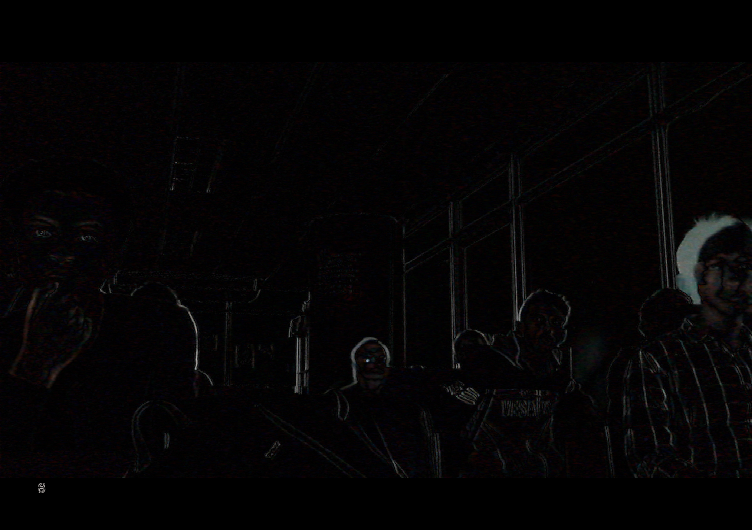
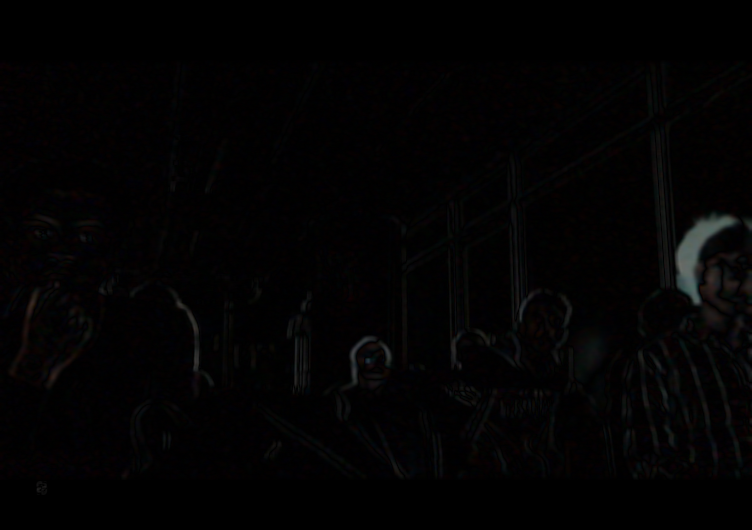
flood fill

diff --git a/FloodFill Demo/src/floodfill/demo/FloodFillDemo.java b/FloodFill Demo/src/floodfill/demo/FloodFillDemo.java
@@ -5,9 +5,16 @@
  */
 package floodfill.demo;
 
+import java.util.HashMap;
+import java.util.LinkedList;
+import java.util.Map;
+import java.util.Queue;
+import javafx.util.Pair;
 import org.opencv.core.Core;
 import org.opencv.core.Mat;
+import org.opencv.core.Size;
 import org.opencv.imgcodecs.Imgcodecs;
+import org.opencv.imgproc.Imgproc;
 
 /**
  *
@@ -16,22 +23,38 @@ import org.opencv.imgcodecs.Imgcodecs;
 public class FloodFillDemo {
 
     private Mat grayscaleMat;
-    private final static double EPS = 1E-5;
+    private Mat frame1;
+    private Mat frame2;
+    private Mat originalMat;
+    private final static double EPS = 10;
     private int label[][];
     private int currentLabel = 0;
+    private int counts[];
     
     public FloodFillDemo() {
         System.loadLibrary(Core.NATIVE_LIBRARY_NAME);
-        Mat frame1 = Imgcodecs.imread("frame1.png");
-        Mat frame2 = Imgcodecs.imread("frame2.png");
-        // apply gaussian filter on both the frames to cancel out noise
+        frame1 = Imgcodecs.imread("frame1.png");
+        frame2 = Imgcodecs.imread("frame2.png");
+
         grayscaleMat = frame1.clone();
+        originalMat = frame1.clone();
+        
+        // apply gaussian filter on both the frames to cancel out noise
+        Imgproc.blur(frame1, frame1, new Size(5.0, 5.0));
+        Imgproc.blur(frame2, frame2, new Size(5.0, 5.0));
+        
         System.out.println("Height " + frame1.height());
         System.out.println("Width " + frame1.width());
         calculateDifference(frame1, frame2, grayscaleMat);
         Imgcodecs.imwrite("difference.png", grayscaleMat);
+        
+        // since we use the result from one process in another
+        // at the end of the last process (here process(2))
+        // we will have the final output (including all three channels)
+        // written in output2.png
         process(0);
-        System.out.println("Different labels: " + currentLabel);
+        process(1);
+        process(2);
     }
     
     private void calculateDifference(Mat m1, Mat m2, Mat dest) {
@@ -54,30 +77,93 @@ public class FloodFillDemo {
     }
 
     private void process(int channel) {
+        // In the worst possible scenario we can have a checkerboard pattern where no two
+        // pixels are connected. There can be half the total number of pixels in such an image
+        counts = new int[(grayscaleMat.height() * grayscaleMat.width()) / 2];
+        
+        // the label 2d array will hold the individual labels for each of the pixels
         label = new int[grayscaleMat.height()][grayscaleMat.width()];
+        
+        // for each pixel in the "difference" image
         for (int r = 0; r < grayscaleMat.height(); r++)
             for (int c = 0; c < grayscaleMat.width(); c++) {
+                // get the current color of the pixel
                 double color[] = grayscaleMat.get(r, c);
+                // if the difference is significant and the pixel is unvisited
                 if (Math.abs(color[channel]) > EPS && label[r][c] == 0) {
+                    // increase the count of different components
                     currentLabel++;
+                    // start a floodfill algorithm from that pixel
                     floodFill(r, c, channel, currentLabel);
                 }
             }
+        
+        // bestLabel will contain the label for the component with the highest number of pixels
+        int bestLabel = 0;
+        for (int i = 0; i < counts.length; i++) {
+            if (counts[i] > counts[bestLabel])
+                bestLabel = i;
+        }
+
+        // for each pixel in the original image
+        for (int r = 0; r < originalMat.height(); r++)
+            for (int c = 0; c < originalMat.width(); c++) {
+                double color[] = originalMat.get(r, c);
+                // if it belongs to the largest component
+                if (label[r][c] == bestLabel) {
+                    // scale up the intensity of that channel by a factor of 2
+                    // but cap it to 255 (meaning it will not exceed 255
+                    color[channel] = Math.min(255, 2 * color[channel]);
+                } else {
+                    // otherwise scale down the intensity of that channel by a factor of 0.5
+                    color[channel] *= 0.5;
+                }
+                originalMat.put(r, c, color);
+            }
+
+        // write an output for this channel
+        Imgcodecs.imwrite("output" + channel + ".png", originalMat);
     }
 
+    /**
+     * BFS implementation of flood fill algorithm.
+     * @param r row to start from
+     * @param c column to start from
+     * @param channel the color channel
+     * @param currentLabel the label that should be set to this pixel
+     */
     private void floodFill(int r, int c, int channel, int currentLabel) {
-        if (r < 0 || c < 0 || r >= grayscaleMat.height() || c >= grayscaleMat.width())
-            return;
+        // Pair (r, c) represents the starting pixel
+        Pair<Integer, Integer> source = new Pair(r, c);
+
+        Queue<Pair<Integer, Integer>> queue = new LinkedList<>();
+        // we add the starting pixel to the queue
+        queue.add(source);
         
-        double color[] = grayscaleMat.get(r, c);
-        if (Math.abs(color[channel]) > EPS && label[r][c] == 0) {
+        // while there are still unvisited pixels
+        while (!queue.isEmpty()) {
+            // pop from the head of the queue
+            Pair<Integer, Integer> u = queue.poll();
+            r = u.getKey();
+            c = u.getValue();
+            
+            // if this pixel is outside the image boundary, or if it is already visited, ignore it
+            if (r < 0 || c < 0 || r >= grayscaleMat.height() || c >= grayscaleMat.width() || label[r][c] > 0)
+                continue;
+            double color[] = grayscaleMat.get(r, c);
+            // if the color difference of this pixel is insignificant, ignore it
+            if (color[channel] < EPS)
+                continue;
+            
+            // mark the pixel with the current label and increase the total count of such pixels
             label[r][c] = currentLabel;
-            floodFill(r, c + 1, channel, currentLabel);
-            floodFill(r, c - 1, channel, currentLabel);
-            floodFill(r - 1, c, channel, currentLabel);
-            floodFill(r + 1, c, channel, currentLabel);
-        } else {
-            return;
+            counts[currentLabel]++;
+            
+            // push all the neighboring pixels into the queue
+            queue.add(new Pair(r, c + 1));
+            queue.add(new Pair(r, c - 1));
+            queue.add(new Pair(r - 1, c));
+            queue.add(new Pair(r + 1, c));
         }
     }
     
